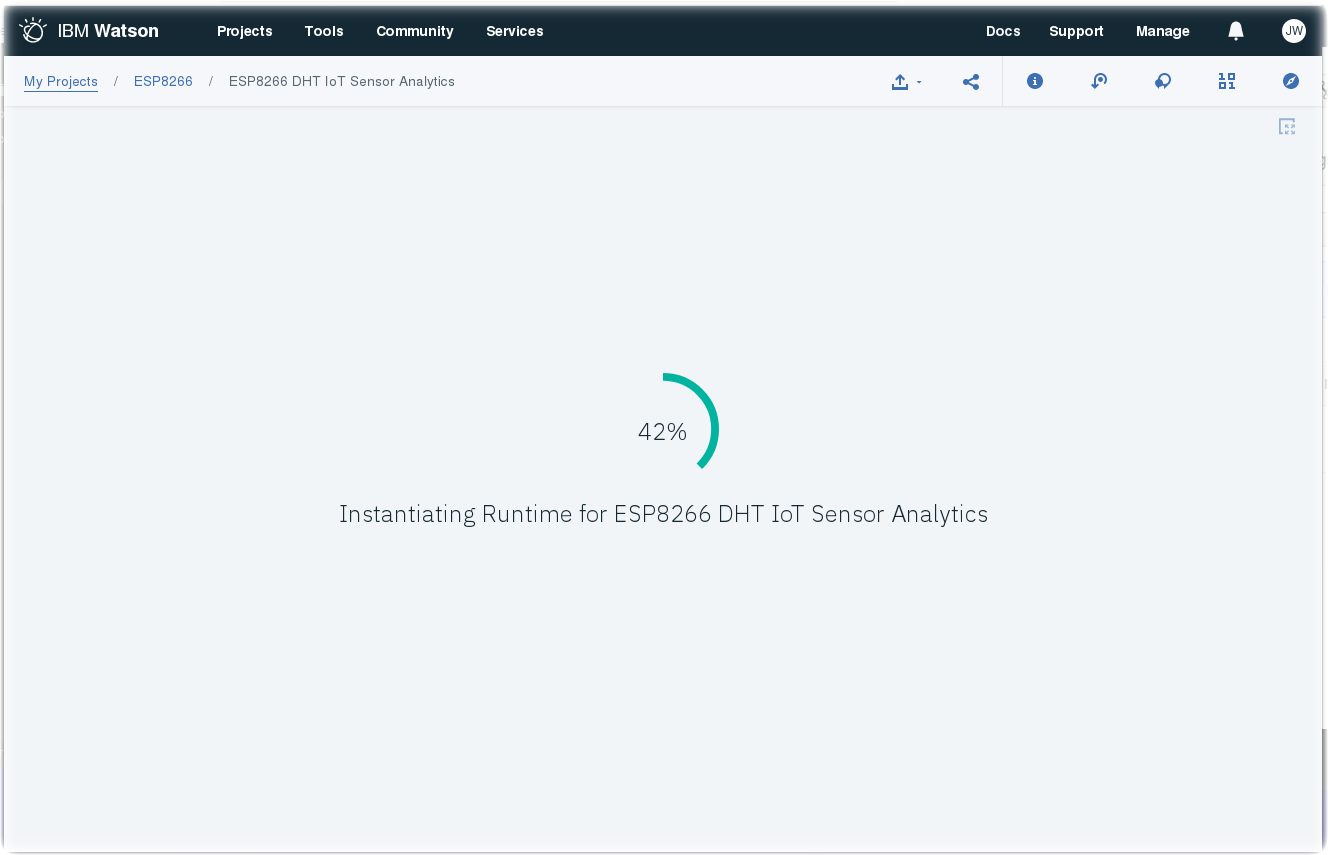
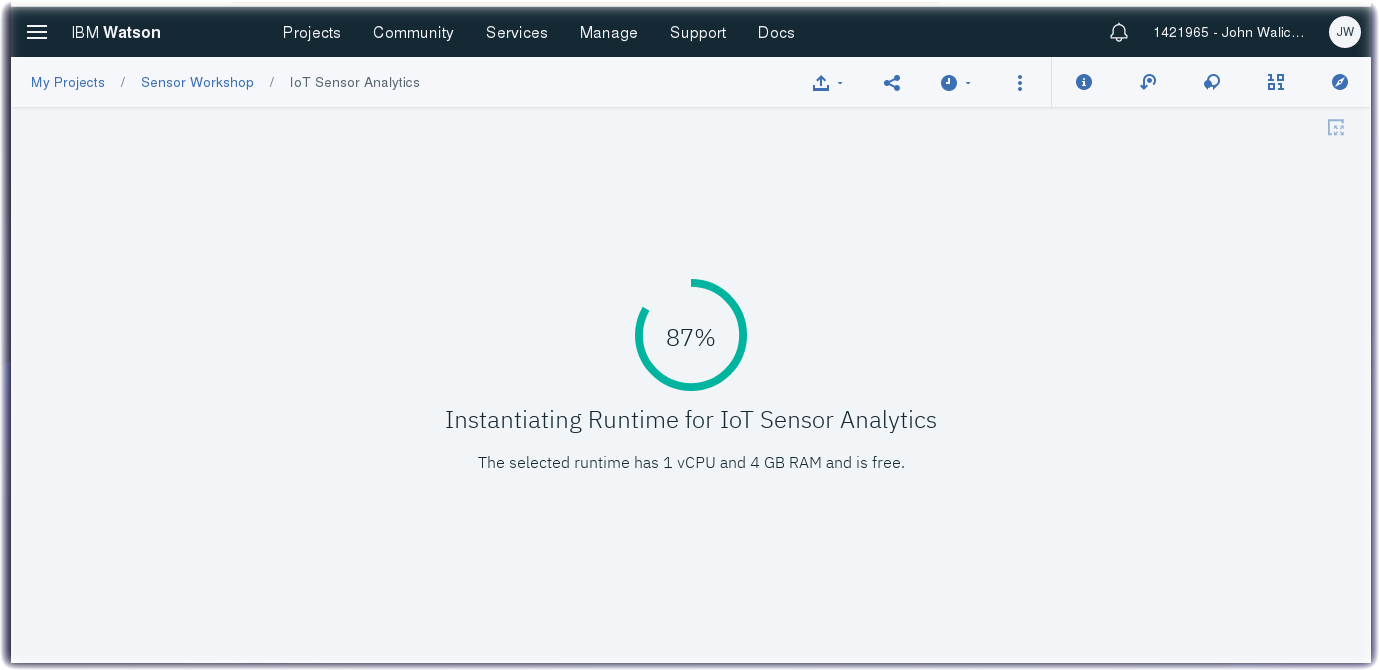
Watson Studio new UX and Instructions

diff --git a/part4/STUDIO.md b/part4/STUDIO.md
@@ -31,30 +31,35 @@ Watson Studio accelerates the machine and deep learning workflows required to in
 
 ### Step 2 - Create a New Project
 - Projects are your workspace to organize your resources, such as assets like data, collaborators, and analytic tools like notebooks and models
+#### Create a New Project
 - Click on **New project**
-- Make sure to enable **Jupyter Notebooks**
-- Press the **OK** button.
-![Watson Studio New project screenshot](screenshots/WatsonStudio-NewProject.png)
-- Give your Project a name - **ESP8266**
+- Select the **Complete** tile and press the **OK** button.
+![Watson Studio New project screenshot](screenshots/WatsonStudio-NewProject-Tiles.png)
+- Give your Project a name : **IoT Sensor Analytics**
+- The Cloud Object Storage instance created in Step 1 should be prefilled.
 - Press the **Create** button.
-- Press the Settings tab.
+![Watson Studio New project screenshot](screenshots/WatsonStudio-NewProject.png)
+
+#### Add an Apache Spark Service
 - We need to add an Apache Spark service to the project.
-- Make certain that Jupyter Notebooks is checked.
-- Scroll down to the **Associated services** section and click on the **Add Service**
+- Press the **Settings** tab.
+![Watson Studio Project Settings screenshot](screenshots/WatsonStudio-ProjectSettings.png)
+- Scroll down to the **Associated services** section and click on the **Add service** dropdown
 - Select **Spark** from the dropdown
+![Watson Studio Project Add Spark Service screenshot](screenshots/WatsonStudio-Project-AddSparkService.png)
 - In the **Apache Spark** service panel, select the **Lite** plan and press the **Create** button.  Press the **Confirm** button.
+![Watson Studio Project Settings screenshot](screenshots/WatsonStudio-Apache-Spark-Service.png)
 - Now an Apache Spark service has been added to your Project.
-- We will get started with Tools
 
 ### Step 3 - Create a Notebook
 
 - From the top menu, select **Tools**, and then **Notebook**
 - Select **From URL**
-- Give the notebook a name: **ESP8266 DHT IoT Sensor Analytics**
+- Give the notebook a name : **IoT Sensor Analytics**
 - Select **From URL**
 - Import the notebook from this URL
 https://raw.githubusercontent.com/binnes/esp8266Workshop/master/part4/notebooks/ESP8266-DHT-IoT-Sensor-Analytics.ipynb
-- Scoll down to the **Select runtime** dropdown and choose your **Spark** service
+- Scoll down to the **Select runtime** dropdown and choose your **Spark** runtime
 ![Watson Studio New notebook screenshot](screenshots/WatsonStudio-NewNotebook.png)
 - Click on **Create Notebook**
 ![Watson Studio New notebook screenshot](screenshots/WatsonStudio-NewNotebook-install.png)
@@ -68,12 +73,13 @@ This will install the Apache Bahir connector within your Project/Apache Spark se
 - Give the notebook a name: **Apache Bahir**
 - Import the notebook from this URL
 https://raw.githubusercontent.com/romeokienzler/developerWorks/master/coursera/bahir_setup.ipynb
-- Scoll down to the **Select runtime** dropdown and choose **DSX-Spark**
+- Scoll down to the **Select runtime** dropdown and choose your **Spark** runtime
 - Click on **Create Notebook**
-- Once it loads, click on the **> Run** button twice.
+- Once it loads, click on the **> Run** menu button twice.
+- Once it reloads, click on the **Kernel** menu and select **Restart & Run All** button.
   ![Watson Studio Apache Bahir notebook run screenshot](screenshots/WatsonStudio-Notebook-ApacheBahir.png)
 
-You are now ready to analyze the ESP8266 IoT historical dataset using a Jupyter notebook and Spark.
+You are now ready to analyze the IoT sensor historical dataset using a Jupyter notebook and Spark.
 
 ***
 **Part 4** - [**Watson Studio**](/part4/STUDIO.md) - [Notebooks](/part4/JUPYTER.md)
